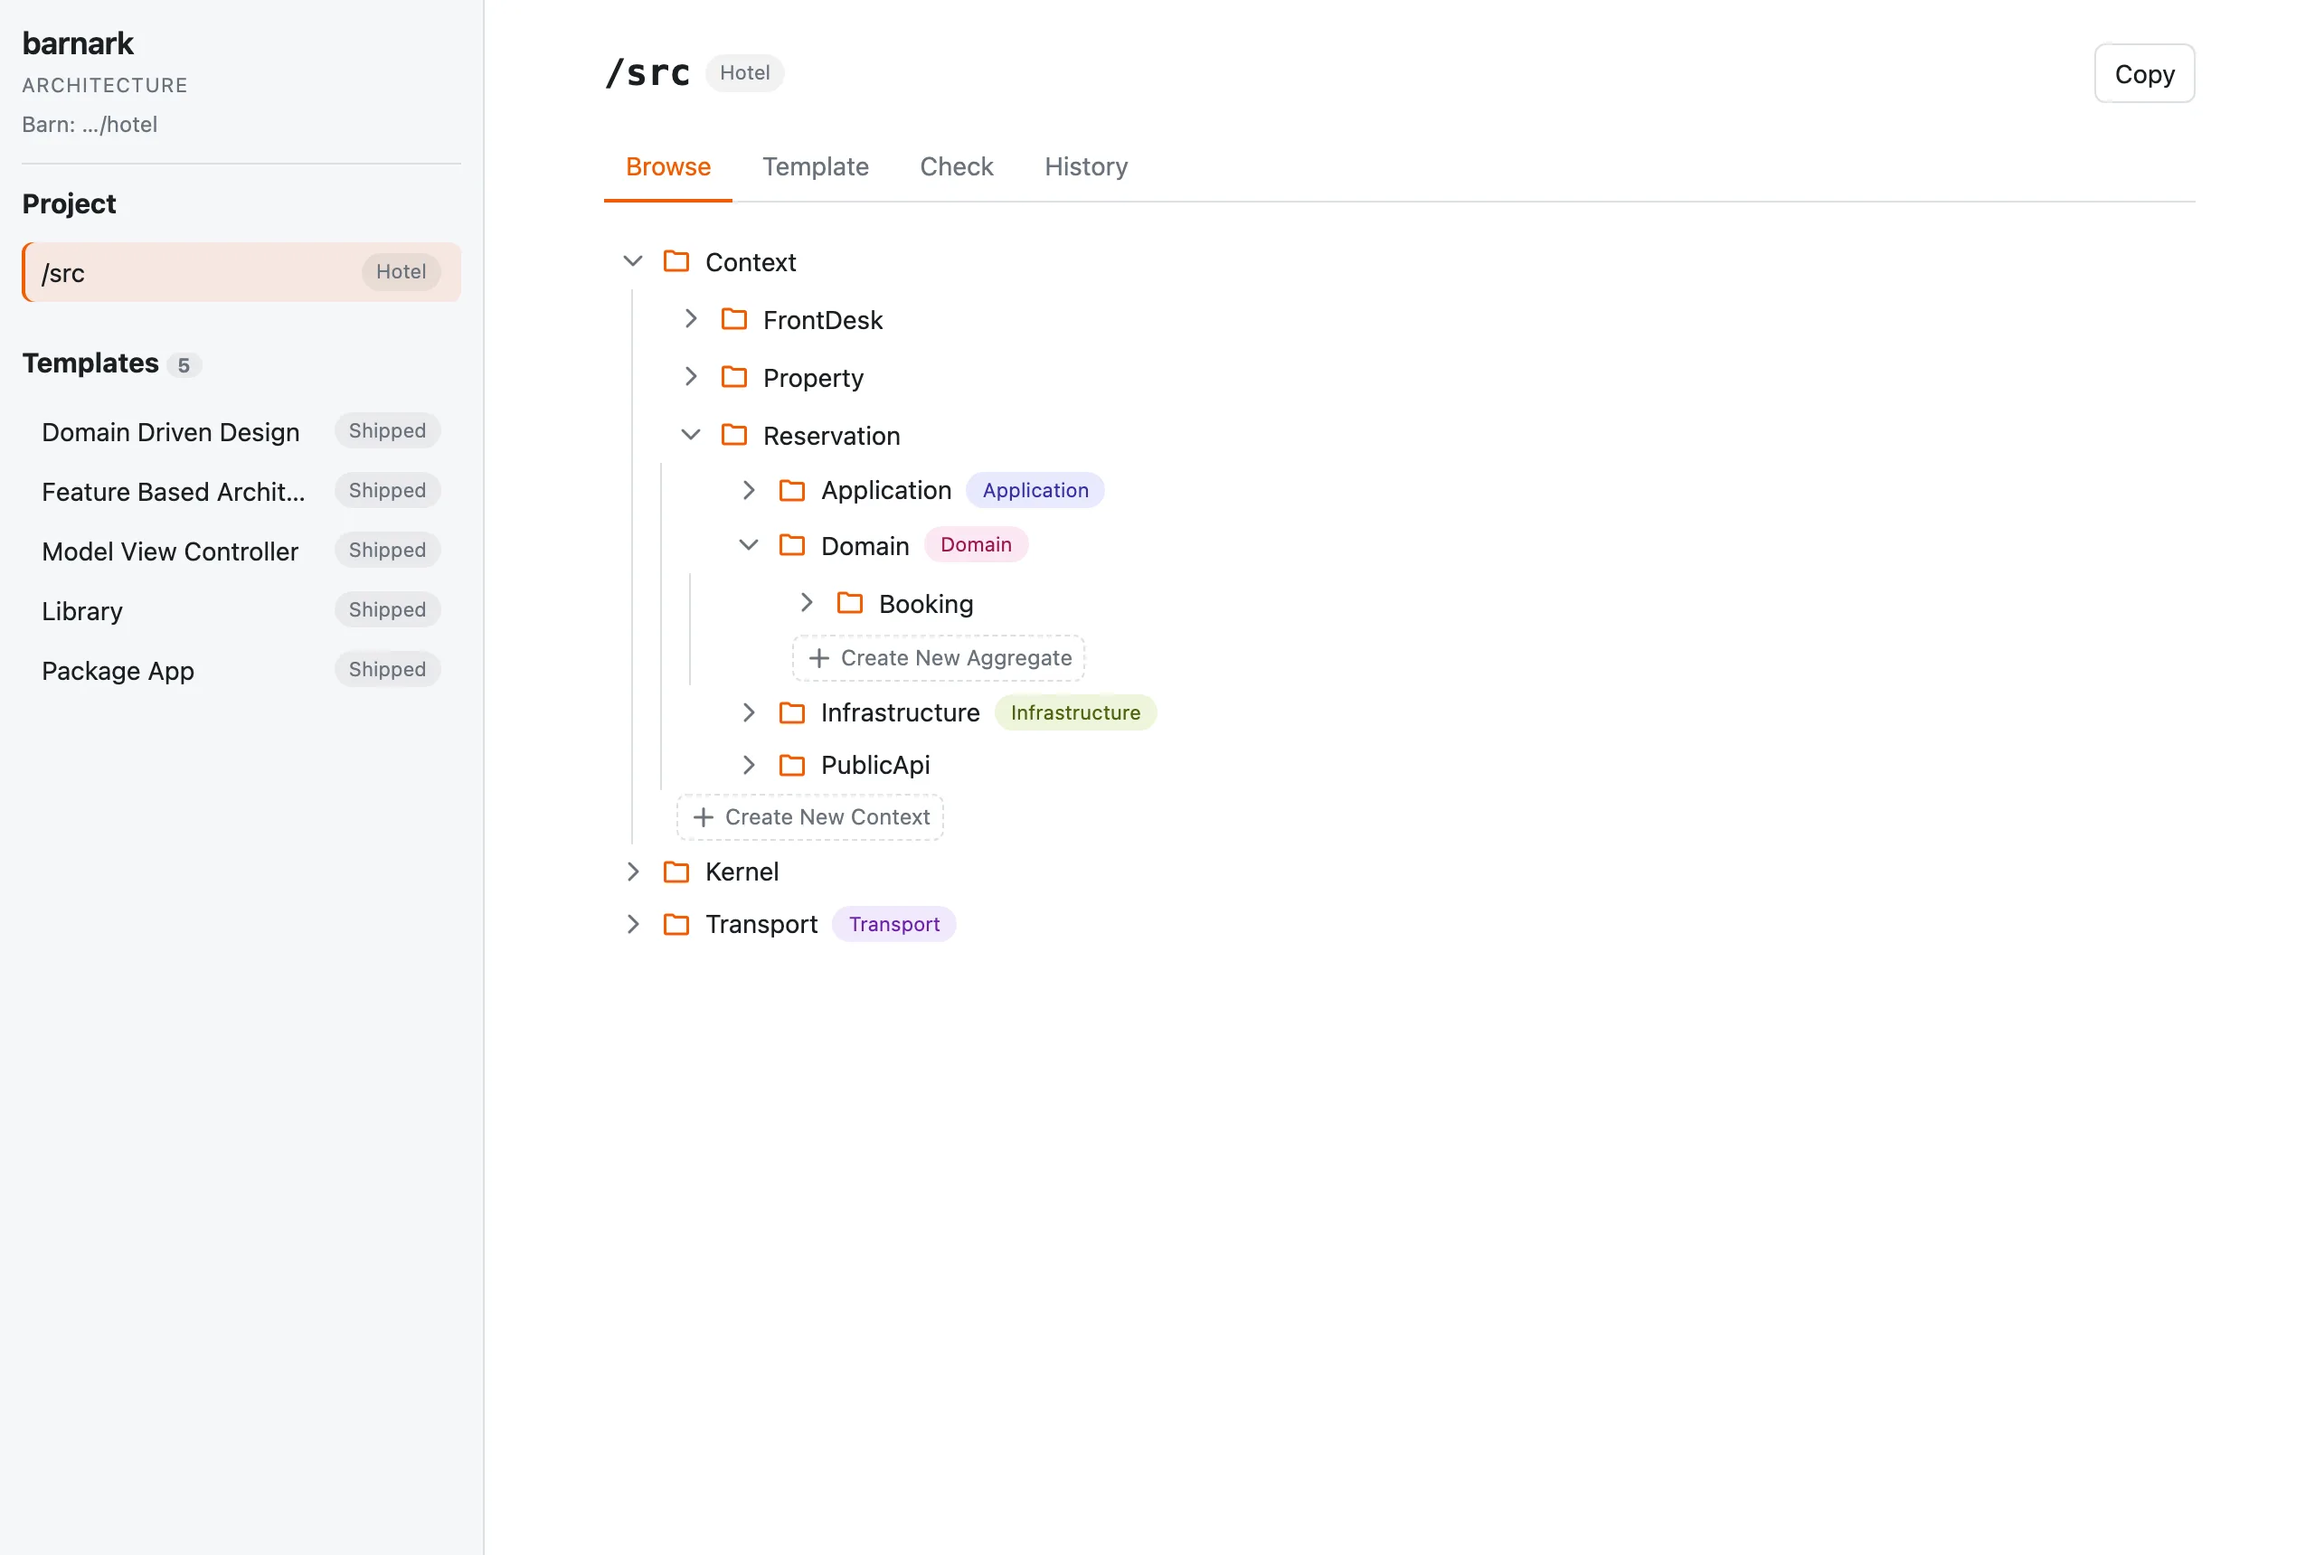
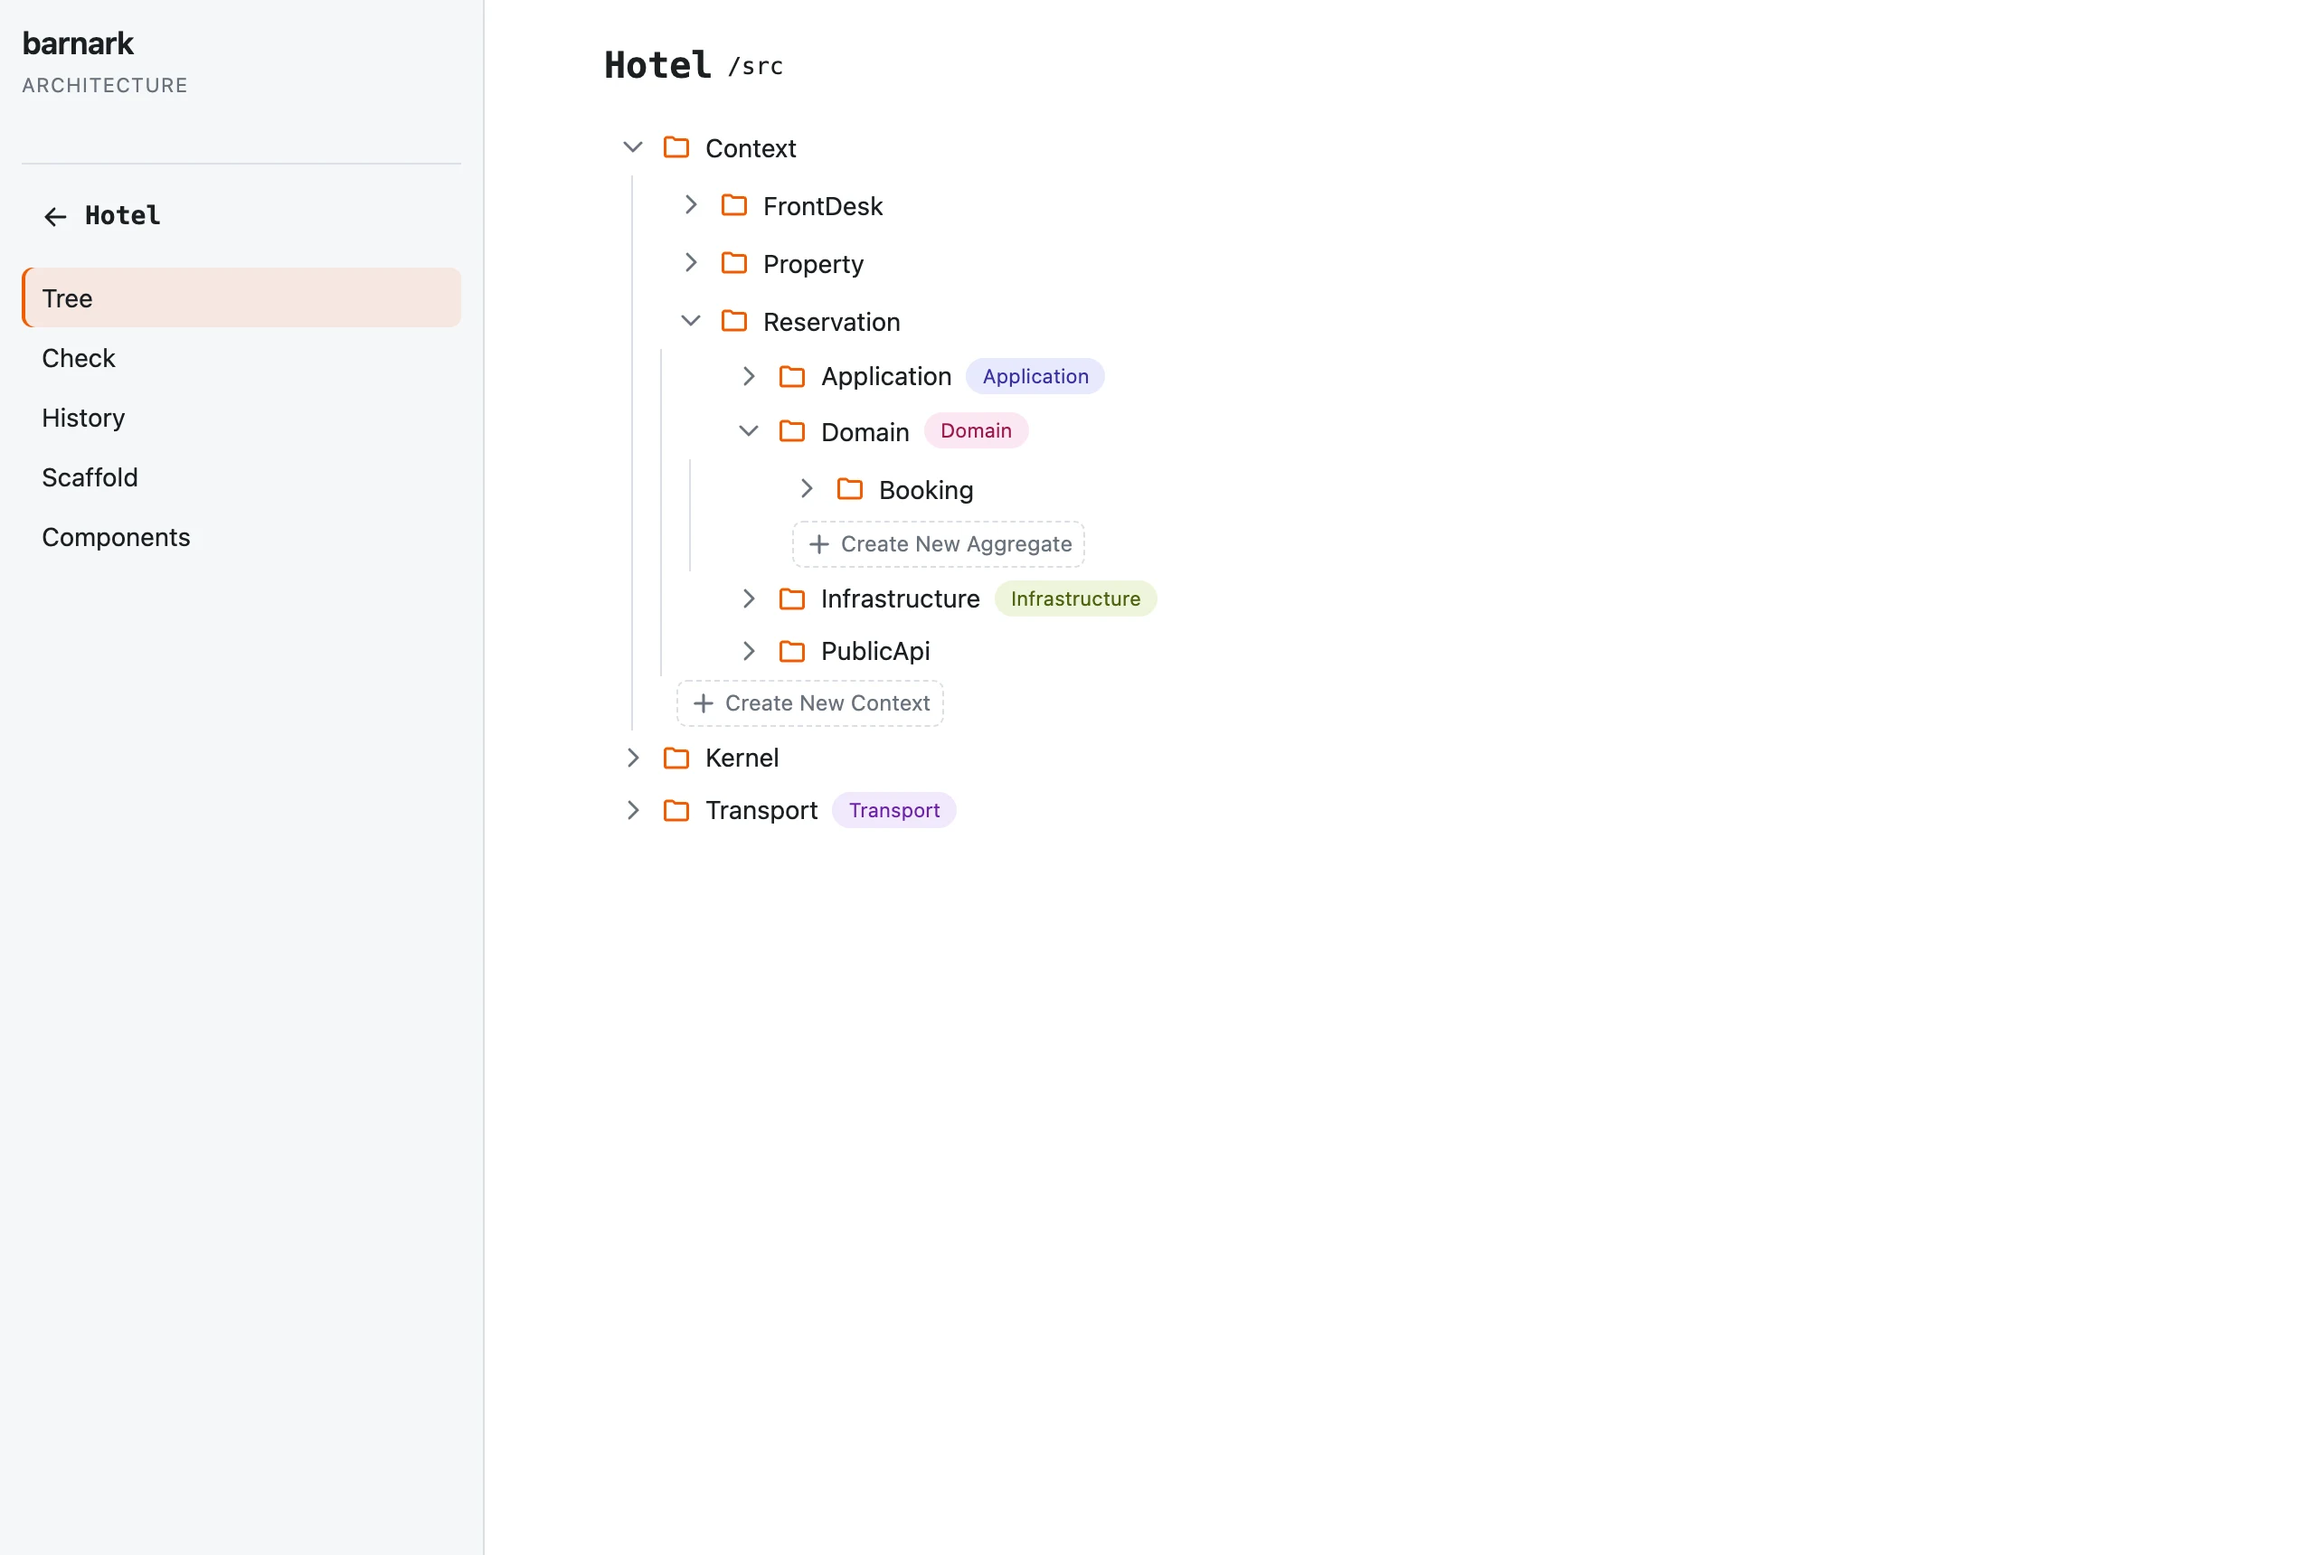
Refresh Barnark tree images in both themes

diff --git a/index.html b/index.html
@@ -254,8 +254,8 @@
           </div>
           <figure>
             <div class="shot">
-              <div class="shot-bar" aria-hidden="true"><i></i><i></i><i></i><span>Barnark · Browse</span></div>
-              <img src="assets/screens/ark-browse.webp" width="2560" height="1720" alt="The Barnark browser app for a hotel project. An ark, src, follows Hotel, its own copy of Domain Driven Design. Its tree is open: the Context folder holds FrontDesk, Property and Reservation, and Reservation’s Domain holds a Booking aggregate. Dashed buttons offer Create New Aggregate and Create New Context where the template allows them.">
+              <div class="shot-bar" aria-hidden="true"><i></i><i></i><i></i><span>Barnark · Tree</span></div>
+              <picture><source media="(prefers-color-scheme: dark)" srcset="assets/screens/ark-browse-dark.webp"><img src="assets/screens/ark-browse.webp" width="2560" height="1720" alt="The Barnark browser app for a hotel project. Hotel is an ark at /src, made from the team’s copy of Domain Driven Design. Its tree is open: the Context folder holds FrontDesk, Property and Reservation, and Reservation’s Domain holds a Booking aggregate. Dashed buttons offer Create New Aggregate and Create New Context where the template allows them."></picture>
             </div>
             <figcaption>Your project’s template knows what belongs where, and offers to create it.</figcaption>
           </figure>

diff --git a/README.md b/README.md
@@ -86,3 +86,10 @@ of `assets/site.css`.
 Large and decorative text (headline accent, kickers, the "+" icons, nav hover)
 uses `--brand-bright`; small body links keep the deeper `--brand-text` so they
 stay readable on white.
+
+### Barnark captures refreshed 2026-11-14
+
+`ark-browse.webp` and its theme-selected `ark-browse-dark.webp` companion are the same
+2× Chrome captures as the Barnark site: published core 0.3.0 / GUI 0.2.10, a disposable
+Hotel ark at `/src`, three contexts, Booking and tagged layers. The local barn path is hidden.
+Existing README embed URLs are retained.
